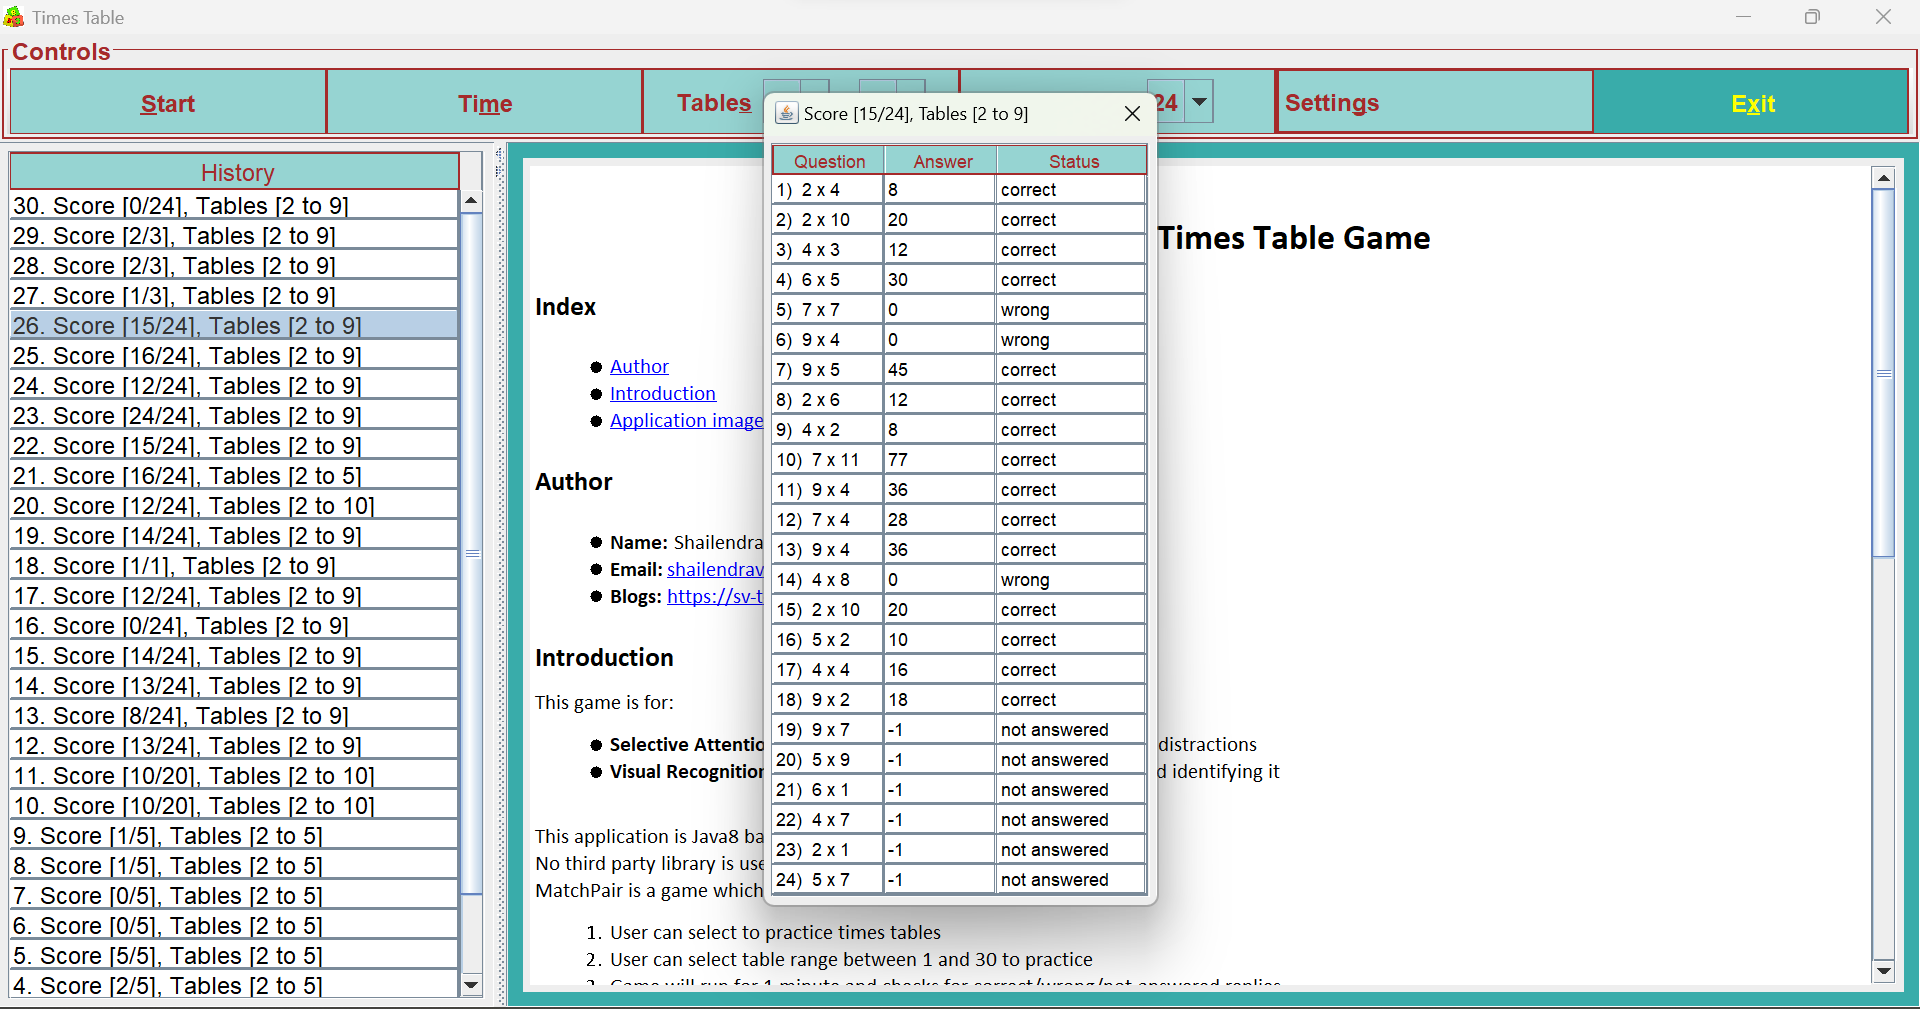
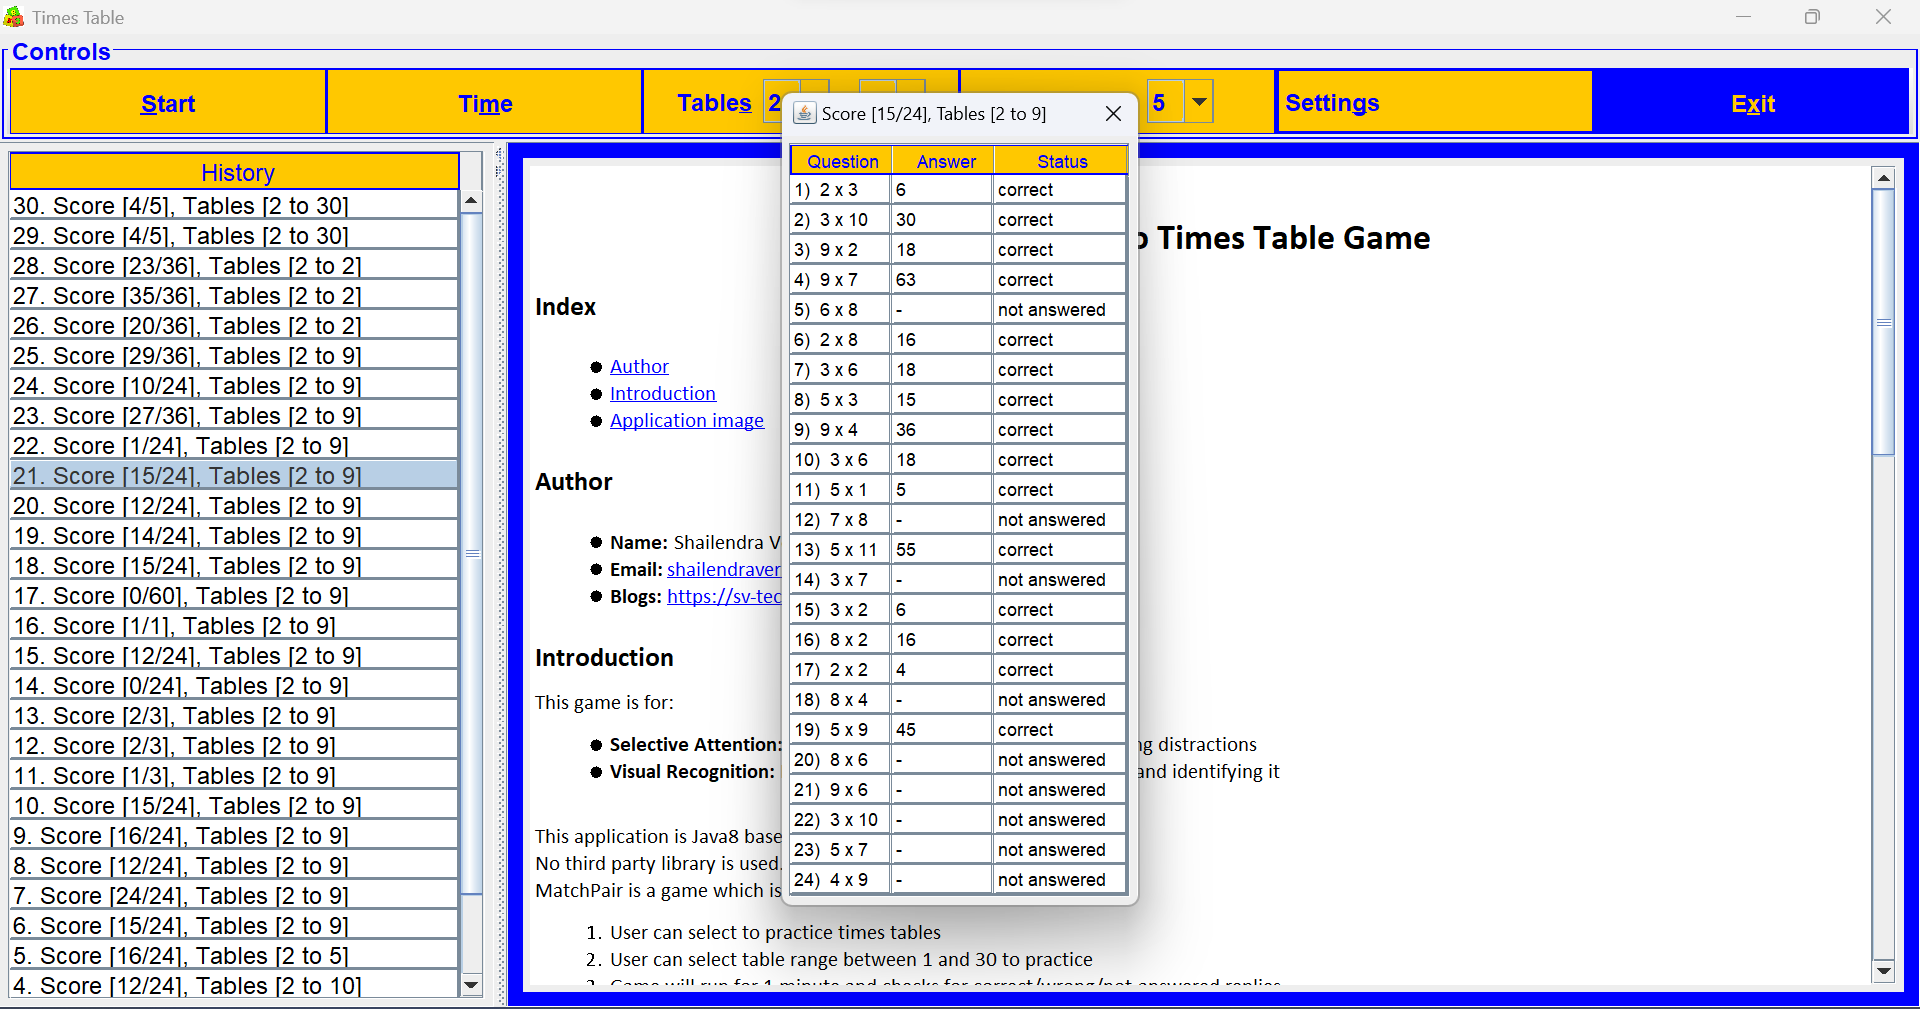
update

Changed region(s): [[0.0, 0.0307, 1.0, 1.0]]

diff --git a/src/main/java/com/sv/timestable/TimesTable.java b/src/main/java/com/sv/timestable/TimesTable.java
@@ -526,7 +526,9 @@ public class TimesTable extends AppFrame {
     private void createGDTableRows(GameDetail gd) {
         gameDetailsModel.setRowCount(0);
         gd.getQuesAns().forEach(q -> {
-            gameDetailsModel.addRow(new Object[]{getQStr(q), q.getUserAns() + "", q.getStatus() + SPACE});
+            gameDetailsModel.addRow(new Object[]{getQStr(q),
+                    q.getUserAns() == -1 ? DASH : q.getUserAns() + "",
+                    q.getStatus() + SPACE});
         });
     }
 
